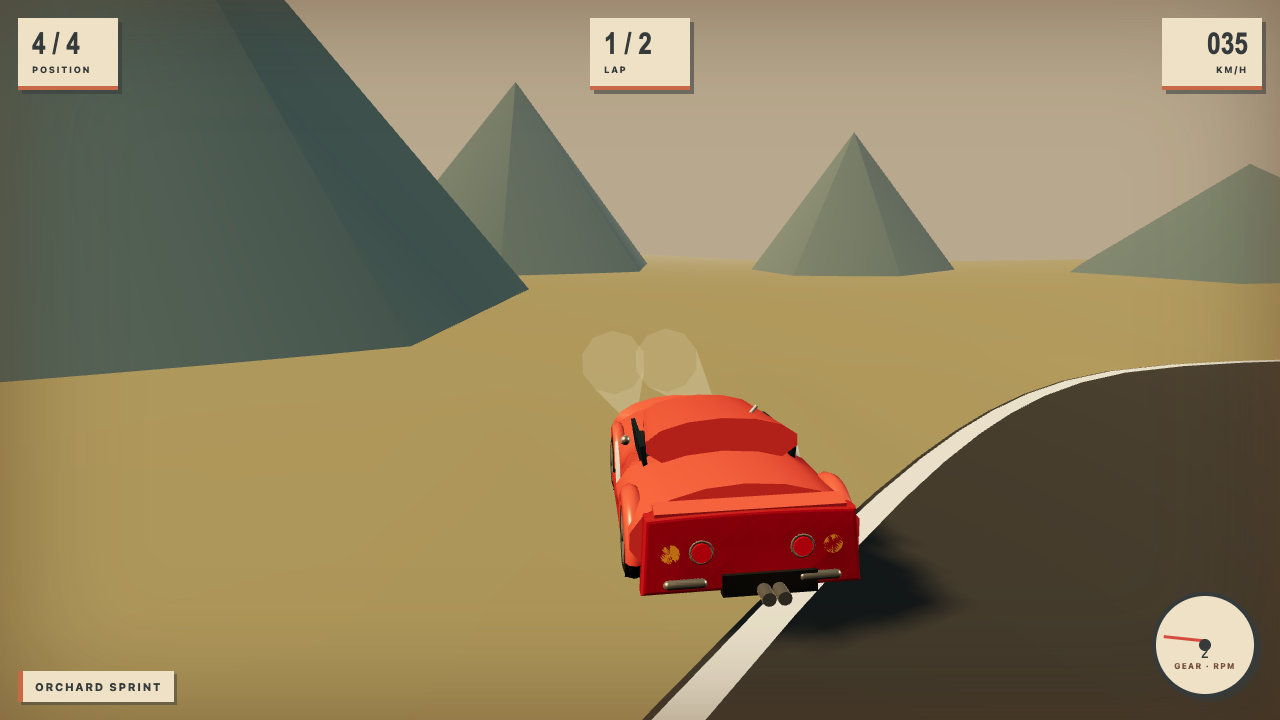
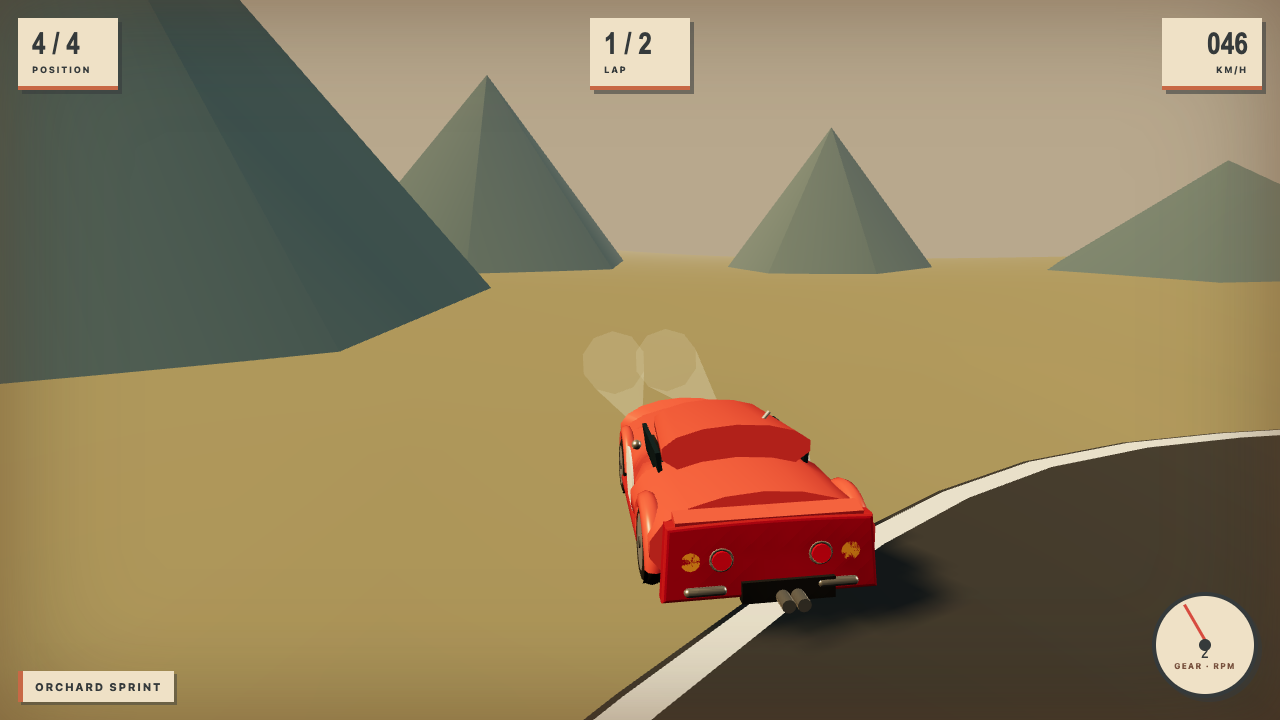
Validate Phase 2 submission safety and isolate race tuning

diff --git a/src/race.ts b/src/race.ts
@@ -16,17 +16,17 @@ export type RivalTuning = {
 
 export const RIVAL_TUNING: Record<RivalId, RivalTuning> = {
   CHARGER: {
-    topSpeed: 34.5, cornerGrip: .86, brakeLookahead: 20, overtakeThreshold: 8.5,
+    topSpeed: 44.5, cornerGrip: .86, brakeLookahead: 20, overtakeThreshold: 8.5,
     passOffset: 2.25, defensiveBias: 0, mistakeChance: .028, mistakeLoss: .25,
     lineSmoothing: 4.2, launch: 1.04,
   },
   TECHNICIAN: {
-    topSpeed: 32.8, cornerGrip: 1.04, brakeLookahead: 28, overtakeThreshold: 5.5,
+    topSpeed: 42.8, cornerGrip: 1.04, brakeLookahead: 28, overtakeThreshold: 5.5,
     passOffset: 1.4, defensiveBias: 0, mistakeChance: .004, mistakeLoss: .08,
     lineSmoothing: 6.8, launch: 1,
   },
   DEFENDER: {
-    topSpeed: 31.4, cornerGrip: .94, brakeLookahead: 24, overtakeThreshold: 4.5,
+    topSpeed: 40.8, cornerGrip: .94, brakeLookahead: 24, overtakeThreshold: 4.5,
     passOffset: 1.25, defensiveBias: 1.8, mistakeChance: .009, mistakeLoss: .1,
     lineSmoothing: 5.4, launch: .98,
   },
@@ -112,27 +112,32 @@ export function nearestTrackXZ(pos: { x: number; z: number }, samples: ReadonlyA
 }
 
 export const CAR_TUNE = {
-  accel: 12.5, brake: 26, reverseAccel: 11, maxForward: 32, maxReverse: 9,
+  accel: 15.5, brake: 28, reverseAccel: 11, maxForward: 43, maxReverse: 9,
   drag: .34, rolling: 1.1, lowSteer: 2.25, highSteer: .82,
   grip: 7.4, handbrakeGrip: 2.1, slipBuild: 3.8, offroadDrag: 3.2,
 };
 
-export function stepCar(s: CarState, input: CarInput, dt: number): CarState {
+export const MULTIPLAYER_CAR_TUNE = {
+  ...CAR_TUNE,
+  accel: 12.5, brake: 26, maxForward: 32,
+};
+
+export function stepCar(s: CarState, input: CarInput, dt: number, tune: typeof CAR_TUNE = CAR_TUNE): CarState {
   const d = Math.max(0, Math.min(.05, dt));
   const throttle = Math.max(0, Math.min(1, input.throttle));
   const brake = Math.max(0, Math.min(1, input.brake));
   let speed = s.speed;
-  if (throttle > 0) speed += (speed >= 0 ? CAR_TUNE.accel * (1 - Math.min(speed / CAR_TUNE.maxForward, 1) * .64) : CAR_TUNE.brake) * throttle * d;
-  if (brake > 0) speed -= (speed > .5 ? CAR_TUNE.brake : CAR_TUNE.reverseAccel) * brake * d;
-  speed -= Math.sign(speed) * Math.min(Math.abs(speed), (CAR_TUNE.rolling + Math.abs(speed) * CAR_TUNE.drag * .08 + (s.offroad ? CAR_TUNE.offroadDrag : 0)) * d);
-  speed = Math.max(-CAR_TUNE.maxReverse, Math.min(CAR_TUNE.maxForward, speed));
-  const speed01 = Math.min(Math.abs(speed) / CAR_TUNE.maxForward, 1);
-  const steerLimit = CAR_TUNE.lowSteer + (CAR_TUNE.highSteer - CAR_TUNE.lowSteer) * speed01;
+  if (throttle > 0) speed += (speed >= 0 ? tune.accel * (1 - Math.min(speed / tune.maxForward, 1) * .64) : tune.brake) * throttle * d;
+  if (brake > 0) speed -= (speed > .5 ? tune.brake : tune.reverseAccel) * brake * d;
+  speed -= Math.sign(speed) * Math.min(Math.abs(speed), (tune.rolling + Math.abs(speed) * tune.drag * .08 + (s.offroad ? tune.offroadDrag : 0)) * d);
+  speed = Math.max(-tune.maxReverse, Math.min(tune.maxForward, speed));
+  const speed01 = Math.min(Math.abs(speed) / tune.maxForward, 1);
+  const steerLimit = tune.lowSteer + (tune.highSteer - tune.lowSteer) * speed01;
   const steerAngle = damp(s.steerAngle, Math.max(-1, Math.min(1, input.steer)) * steerLimit, 10, d);
-  const grip = input.handbrake ? CAR_TUNE.handbrakeGrip : CAR_TUNE.grip;
+  const grip = input.handbrake ? tune.handbrakeGrip : tune.grip;
   const wantedSlip = input.handbrake && speed01 > .2 ? steerAngle * speed01 * .72 : steerAngle * speed01 * .14;
   const slip = damp(s.slip, wantedSlip, grip, d);
-  const heading = s.heading + (steerAngle - slip * .58) * (speed / CAR_TUNE.maxForward) * d;
+  const heading = s.heading + (steerAngle - slip * .58) * (speed / tune.maxForward) * d;
   const travel = heading + slip;
   return { ...s, speed, heading, slip, steerAngle, x: s.x + Math.sin(travel) * speed * d, z: s.z + Math.cos(travel) * speed * d };
 }

diff --git a/src/race.test.ts b/src/race.test.ts
@@ -1,5 +1,5 @@
 import { describe, expect, it } from 'vitest';
-import { awardRace, createProgress, crossCheckpoint, mapAnalogControl, nearestTrackXZ, rankedStandings, resolveCarOverlap, RIVAL_TUNING, stepCar, type Standing } from './race';
+import { awardRace, CAR_TUNE, createProgress, crossCheckpoint, mapAnalogControl, MULTIPLAYER_CAR_TUNE, nearestTrackXZ, rankedStandings, resolveCarOverlap, RIVAL_TUNING, stepCar, type Standing } from './race';
 
 describe('ordered checkpoint and lap state', () => {
   it('rejects skipped and repeated checkpoints', () => {
@@ -50,16 +50,32 @@ describe('handling and personalities', () => {
   it('accelerates, brakes, reverses and limits high-speed steering', () => {
     let s={speed:0,heading:0,slip:0,steerAngle:0,x:0,z:0,offroad:false};
     for(let i=0;i<120;i++)s=stepCar(s,{throttle:1,brake:0,steer:0,handbrake:false},1/60);
-    expect(s.speed).toBeGreaterThan(15);expect(s.speed).toBeLessThan(22);const fast=s;
+    expect(s.speed).toBeGreaterThan(20);expect(s.speed).toBeLessThan(30);const fast=s;
     for(let i=0;i<45;i++)s=stepCar(s,{throttle:0,brake:1,steer:1,handbrake:true},1/60);
     expect(s.speed).toBeLessThan(fast.speed);expect(Math.abs(s.slip)).toBeGreaterThan(.01);
   });
-  it('reverses on a verge and keeps top speed below the previous tune', () => {
+  it('reverses on a verge without changing the approved single-player forward limit', () => {
     let s={speed:0,heading:0,slip:0,steerAngle:0,x:0,z:0,offroad:true};
     for(let i=0;i<90;i++)s=stepCar(s,{throttle:0,brake:1,steer:0,handbrake:false},1/60);
     expect(s.speed).toBeLessThan(-3);
     expect(s.z).toBeLessThan(0);
     expect(s.speed).toBeGreaterThan(-10);
+    expect(CAR_TUNE.maxForward).toBe(43);
+    expect(RIVAL_TUNING.CHARGER.topSpeed).toBe(44.5);
+    expect(RIVAL_TUNING.TECHNICIAN.topSpeed).toBe(42.8);
+    expect(RIVAL_TUNING.DEFENDER.topSpeed).toBe(40.8);
+  });
+  it('keeps the lower multiplayer forward tune separate from single-player', () => {
+    expect(MULTIPLAYER_CAR_TUNE.maxForward).toBe(32);
+    const base={speed:0,heading:0,slip:0,steerAngle:0,x:0,z:0,offroad:false};
+    let solo=base, together=base;
+    const input={throttle:1,brake:0,steer:0,handbrake:false};
+    for(let i=0;i<600;i++) {
+      solo=stepCar(solo,input,1/60);
+      together=stepCar(together,input,1/60,MULTIPLAYER_CAR_TUNE);
+    }
+    expect(solo.speed).toBeGreaterThan(together.speed+5);
+    expect(together.speed).toBeLessThanOrEqual(32);
   });
   it('separates overlapping car footprints but leaves clear lanes alone', () => {
     const contact=resolveCarOverlap({x:0,z:1,heading:0},{x:0,z:0});

diff --git a/src/multiplayer/race-mode.ts b/src/multiplayer/race-mode.ts
@@ -3,7 +3,7 @@ import createHeroCoupe from '../assets/hero_coupe.js';
 import createRivalCar from '../assets/rival_cars.js';
 import { createTrackRoute, trackIndex } from '../../shared/track-route.js';
 import { ClientEvent, ServerEvent, type RoomSnapshot } from '../../shared/multiplayer-protocol.js';
-import { resolveCarOverlap, stepCar, type CarInput, type CarState } from '../race';
+import { MULTIPLAYER_CAR_TUNE, resolveCarOverlap, stepCar, type CarInput, type CarState } from '../race';
 import type { RoadSystem } from '../road_system';
 import { avatarDataUrl } from './avatars';
 import { interpolatePose, type RacePose, type TimedPose } from './interpolation';
@@ -171,7 +171,7 @@ export class MultiplayerRace {
       if (road) {
         const before = this.trackRoute.nearest(this.local.x, this.local.z);
         this.local.offroad = before.distance > 4.3;
-        this.local = stepCar(this.local, input, dt);
+        this.local = stepCar(this.local, input, dt, MULTIPLAYER_CAR_TUNE);
         const after = this.trackRoute.nearest(this.local.x, this.local.z);
         if (after.distance > 5.2) {
           const point = this.trackRoute.curve.getPointAt(after.t);

diff --git a/src/main.ts b/src/main.ts
@@ -1128,7 +1128,7 @@ lobby.openInvite();
 
 standings = freshStandings();
 window.__READY__ = true;
-window.__START__ = resetRace;
+window.__START__ = startChampionship;
 window.__GAME__ = {
   pos: [0, 0],
   fps: 0,

diff --git a/receipts/multiplayer/PHASE_2_SUBMISSION_SAFETY.md b/receipts/multiplayer/PHASE_2_SUBMISSION_SAFETY.md
@@ -1,0 +1,37 @@
+# Phase 2 submission-safety validation
+
+Date: 2026-09-25. Preserved checkpoints: Phase 1 `5d9bd59`; Phase 2 `d74d4a7`. This pass began on the later `da7bde9` working-tree HEAD and does not replace either checkpoint. No Phase 3, actual deployment, 3D asset, or credential work was undertaken.
+
+## Official guidance and the generic playtest
+
+Read the current official `docs/gates.md`, `docs/verify-loop.md`, and `harness/playtest.mjs` in the cloned 404 recipe. `gates.md` explicitly warns that its generic arrow-key route is unsuitable for many games and calls for a genre-specific real-input gate. The current harness has six fixed legs: forward 50 m, forward+right 18 m, forward 45 m, forward+left 18 m, forward 45 m, forward+right 20 m. It does not follow this track's centreline, brake, or recover from a verge.
+
+At `d74d4a7`, the generic playtest exited 1: **188.8/196 m**, one stalled leg, no reported console/404 or cost failure. Its filmstrip also exposed a test-integration issue: no `#startb` existed, so the harness called `__START__`, which invoked `resetRace()` without hiding the main menu. The game drove behind the menu. This pass makes the hook use the existing Championship start path; the real Championship button remains unchanged.
+
+After restoring single-player forward pace and rebuilding, the official generic playtest was rerun with installed system Chrome. It again exited **1**: **173.5/196 m**, one stalled leg; peak **325 draws / 41,936 triangles**, minimum sampled **~60 FPS**. The fifth leg (45 m of forward-only input) is the stall. Frames 3→4 advance only about 21 m in world displacement while the car is visibly on the outside verge; frame 4 still reports ~9.6 m/s. The road bends away from the harness's fixed heading. The existing verge constraint pulls the off-road car back toward the track each frame, cancelling much of that forward-only travel. The final 20 m turning leg then runs. This is a **generic route/handling mismatch**, not evidence that normal steering, recovery, or inputs have regressed. No road geometry or driving tune was changed to satisfy that route. The official playtest still does not test the real start button because this game's actual button is `#championship`, not `#startb`.
+
+## Scope correction
+
+Comparison with `5d9bd59` confirmed that Phase 2 had changed shared forward `CAR_TUNE` (43→32 m/s, 15.5→12.5 acceleration, 28→26 braking) and all three AI top speeds. That unintentionally slowed Championship and Quick Race. Their approved forward acceleration, braking, speed limit, and rival speeds are restored. Race Together alone passes the lower 32 m/s tune to the same controller. The shared off-road reverse improvement and car-overlap response remain, because they address the reported control/collision defects. A unit test now locks the single-player and multiplayer limits separately.
+
+## Local results after correction
+
+| Validation | Result |
+| --- | --- |
+| Typecheck | PASS |
+| Production build | PASS; existing >560 kB minified-chunk advisory only |
+| Client tests | 15/15 PASS |
+| Server/lobby tests | 17/17 PASS |
+| Championship and Quick Race custom browser gate | 14/14 PASS; real keyboard, touch movement/steering, AI motion, reset, no console errors or asset 404s |
+| Phase 1 lobby browser gate | 23/23 PASS after correcting a stale host-migration row selector; host promotion itself worked |
+| Race Together browser gate | 2-, 3-, and 4-client runs PASS; 0 ms scheduled-start spread, pre-GO lock, all local/remote cars move, common server results, mobile touch in the two-player case, host disconnect/reconnect, rematch, lobby return, no console errors or asset 404s |
+| Official `ship.mjs dist` | PASS: modules parse and imports stay inside `dist`; one 108-number array in the minified bundle is flagged for manual review, not failed. No geometry source changed in this pass. |
+| Official generic `playtest.mjs dist` | **FAIL**: fifth fixed leg stalls as described above; not claimed as passed. |
+
+The Race Together gate's full-lap finish path still uses ordered route samples and an accelerated test clock after proving real keyboard/touch driving in browsers. This verifies server authority and consistent result UI; it is not a claim of human-driven full laps. Browser mobile testing is a touch-enabled viewport, not a physical device.
+
+## Ready for a deployed-URL check, but not a jam verdict
+
+The production folder builds and passes `ship.mjs`; the local single-player and multiplayer gates pass. `.env` is ignored by Git, not tracked, and now excluded from the Docker build context. No credential value was printed or copied into a receipt. The former Dockerfile served static files only, which would leave Race Together without its WebSocket backend. The revised runtime installs production dependencies and runs the existing combined static/WebSocket server with `SERVE_DIST=1`; its browser/server path was exercised by the local multiplayer gate. The Docker image itself **was not built** because this machine's Docker daemon is unavailable, so container startup remains an unverified deployment preflight item.
+
+The official `jam.mjs` and `live.mjs` check a **deployed URL** and were not run here; there is no live jam verdict. Once deployment is separately authorized and a URL exists, use the real visible Championship control and analog pad, e.g. `jam.mjs <deployed-url> --start="#championship" --hold="#steerPad" --commit=<deployed-sha>`, then run `live.mjs` on phone and desktop. A deployed multiplayer smoke test must also verify that the browser can reach its WebSocket backend at the public origin; local loopback success alone cannot establish that.
